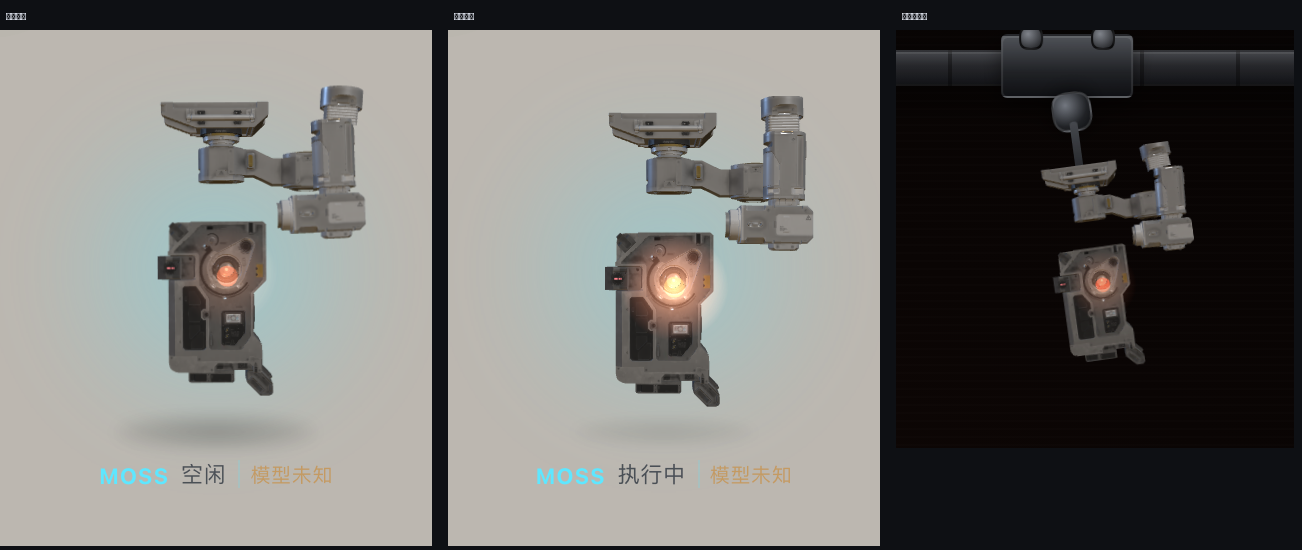
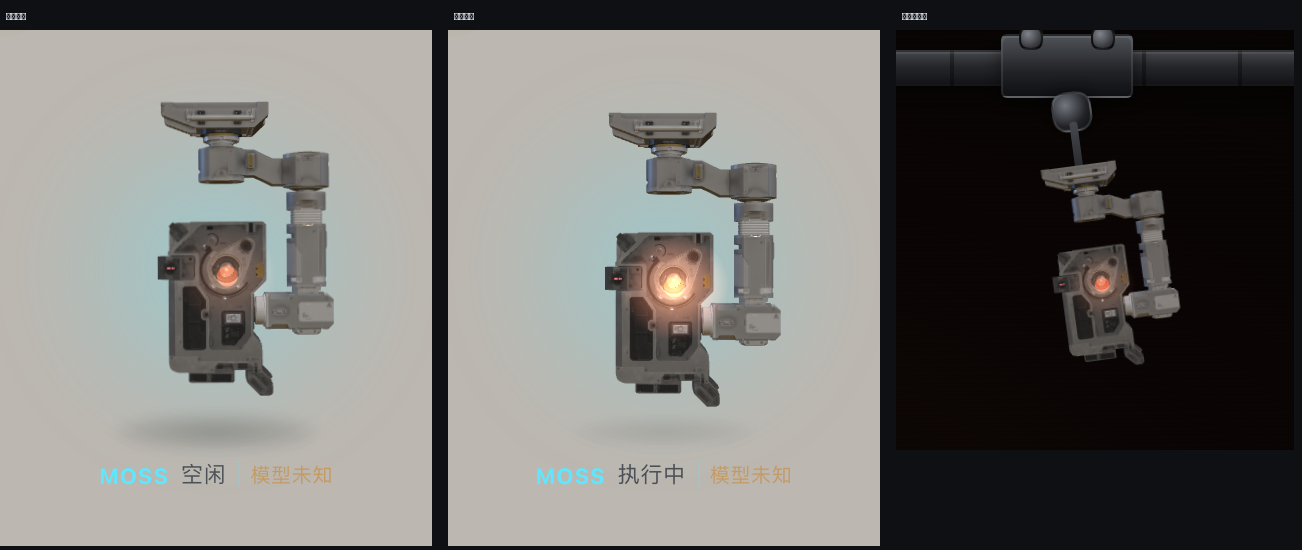
fix(moss): 关节改为腕关节单轴，消除机身与手臂分离
实测模型结构：Moss_arm 把顶部横梁+头部+整条手臂焊成一个 rigid mesh，
只有 Moss_Main/Annexes/Glass（机身）是独立 mesh。
- 放弃按高度切分手臂（切完会出现零件错位/消失，已复现）
- 改为：机身挂到腕关节枢轴，绕手臂末端摆动（空闲 ±1.8°、执行 ±2.6°）
- 机身随腕关节运动，手臂/头部保持完整，不再出现撕裂或空洞
- 红眼仍挂在模型根节点随模型动
- 素材版本 v50

Changed region(s): [[0.5223, 0.1545, 0.6452, 0.6491], [0.1843, 0.1545, 0.3072, 0.6182], [0.8602, 0.2473, 0.9217, 0.5873]]

diff --git a/assets3d/boot.js b/assets3d/boot.js
@@ -32,6 +32,7 @@ export function createMoss3D(canvas, opts) {
   let lensLamp = null
   let armTop = null
   let armMid = null
+  let armWrist = null
   let working = false
   let disposed = false
   let raf = 0
@@ -77,137 +78,31 @@ export function createMoss3D(canvas, opts) {
     objRoot = obj
     obj.updateMatrixWorld(true)
 
-    /* ── 机械臂拆分：模型的手臂是 52 个独立零件，按高度分成上臂 / 前臂 / 手 ──
-       每段绕自己的关节旋转，段与段之间是真实关节，不会撕裂。 */
-    const arm = obj.getObjectByName('Moss_arm')
-    if (arm) {
-      const geo = arm.geometry
-      const posAttr = geo.attributes.position
-      const norAttr = geo.attributes.normal
-      const uvAttr = geo.attributes.uv
-      const total = posAttr.count
-
-      /* 1) 按坐标焊接后并查集，得到三角面所属的连通块 */
-      const weld = new Map()
-      const wid = new Int32Array(total)
-      for (let i = 0; i < total; i += 1) {
-        const k = posAttr.getX(i).toFixed(2) + ',' + posAttr.getY(i).toFixed(2) + ',' + posAttr.getZ(i).toFixed(2)
-        let id = weld.get(k)
-        if (id === undefined) { id = weld.size; weld.set(k, id) }
-        wid[i] = id
+    /* ── 关节 ──────────────────────────────────────────────────────
+       模型结构实测：顶部横梁 + 头部 + 整条手臂被焊成同一个 mesh（Moss_arm），
+       只有机身（Moss_Main / Moss_Annexes / Moss_Glass）是独立 mesh。
+       所以唯一能无撕裂旋转的关节是「腕关节」：机身绕手臂末端摆动。
+       硬转整条手臂会把头部和机身一起拽走（已实测），因此不转手臂。 */
+    {
+      const body0 = obj.getObjectByName('Moss_Main')
+      if (body0) {
+        const mb = new THREE.Box3().setFromObject(body0)
+        /* 腕关节在机身右上角、手臂与机身相连处 */
+        const wristPos = new THREE.Vector3(
+          mb.max.x - (mb.max.x - mb.min.x) * 0.02,
+          mb.max.y - (mb.max.y - mb.min.y) * 0.06,
+          mb.getCenter(new THREE.Vector3()).z,
+        )
+        const wrist = new THREE.Group()
+        wrist.position.copy(obj.worldToLocal(wristPos.clone()))
+        obj.add(wrist)
+        obj.updateMatrixWorld(true)
+        ;['Moss_Main', 'Moss_Annexes', 'Moss_Glass'].forEach((nm) => {
+          const part = obj.getObjectByName(nm)
+          if (part) wrist.attach(part)
+        })
+        armWrist = wrist
       }
-      const parent = new Int32Array(weld.size)
-      for (let i = 0; i < parent.length; i += 1) parent[i] = i
-      const find = (x) => { let r = x; while (parent[r] !== r) r = parent[r]; while (parent[x] !== r) { const n = parent[x]; parent[x] = r; x = n } return r }
-      const join = (a, b) => { const ra = find(a); const rb = find(b); if (ra !== rb) parent[ra] = rb }
-      for (let i = 0; i < total; i += 3) { join(wid[i], wid[i + 1]); join(wid[i], wid[i + 2]) }
-
-      /* 2) 每个连通块的世界坐标 Y（手臂网格可能带旋转，必须转到世界） */
-      arm.updateMatrixWorld(true)
-      const root = arm.matrixWorld
-      const toWorld = new THREE.Vector3()
-      const compY = new Map()
-      for (let i = 0; i < total; i += 1) {
-        const r = find(wid[i])
-        toWorld.set(posAttr.getX(i), posAttr.getY(i), posAttr.getZ(i)).applyMatrix4(root)
-        const rec = compY.get(r)
-        if (!rec) compY.set(r, { y0: toWorld.y, y1: toWorld.y, sum: toWorld.y, n: 1 })
-        else { rec.y0 = Math.min(rec.y0, toWorld.y); rec.y1 = Math.max(rec.y1, toWorld.y); rec.sum += toWorld.y; rec.n += 1 }
-      }
-      let minY = Infinity; let maxY = -Infinity
-      compY.forEach((rec) => { minY = Math.min(minY, rec.y0); maxY = Math.max(maxY, rec.y1) })
-      const span = Math.max(0.001, maxY - minY)
-      const yShoulder = maxY - span * 0.30
-      const yElbow = maxY - span * 0.68
-
-      /* 3) 按组的包围盒把三角面分到三段里 */
-      const groupOf = new Map()   // componentRoot -> 0 上臂 / 1 前臂 / 2 手
-      compY.forEach((rec, r) => {
-        const mid = (rec.y0 + rec.y1) / 2
-        groupOf.set(r, mid > yShoulder ? 0 : mid > yElbow ? 1 : 2)
-      })
-
-      const buckets = [[], [], []]
-      for (let i = 0; i < total; i += 3) {
-        const gI = groupOf.get(find(wid[i])) || 0
-        buckets[gI].push(i)
-      }
-
-      const buildSub = (triStarts) => {
-        const count = triStarts.length * 3
-        const p2 = new Float32Array(count * 3)
-        const n2 = new Float32Array(count * 3)
-        const u2 = uvAttr ? new Float32Array(count * 2) : null
-        let w = 0
-        for (const start of triStarts) {
-          for (let k = 0; k < 3; k += 1) {
-            const v = start + k
-            p2[w * 3] = posAttr.getX(v); p2[w * 3 + 1] = posAttr.getY(v); p2[w * 3 + 2] = posAttr.getZ(v)
-            if (norAttr) { n2[w * 3] = norAttr.getX(v); n2[w * 3 + 1] = norAttr.getY(v); n2[w * 3 + 2] = norAttr.getZ(v) }
-            if (u2) { u2[w * 2] = uvAttr.getX(v); u2[w * 2 + 1] = uvAttr.getY(v) }
-            w += 1
-          }
-        }
-        const g2 = new THREE.BufferGeometry()
-        g2.setAttribute('position', new THREE.BufferAttribute(p2, 3))
-        if (norAttr) g2.setAttribute('normal', new THREE.BufferAttribute(n2, 3))
-        if (u2) g2.setAttribute('uv', new THREE.BufferAttribute(u2, 2))
-        return g2
-      }
-
-      const parentOfArm = arm.parent
-      const armMaterial = arm.material
-      const makePivot = (worldPos, parentObj) => {
-        const p = new THREE.Group()
-        p.position.copy(parentObj.worldToLocal(worldPos.clone()))
-        parentObj.add(p)
-        parentObj.updateMatrixWorld(true)
-        return p
-      }
-      const segWorld = [[], [], []]
-      for (let i = 0; i < total; i += 1) {
-        const gI = groupOf.get(find(wid[i])) || 0
-        toWorld.set(posAttr.getX(i), posAttr.getY(i), posAttr.getZ(i)).applyMatrix4(root)
-        segWorld[gI].push(toWorld.clone())
-      }
-      const topOf = (arr) => {
-        if (!arr.length) return new THREE.Vector3()
-        let top = -Infinity
-        for (const v of arr) { if (v.y > top) top = v.y }
-        let sx = 0; let sz = 0; let n = 0
-        for (const v of arr) { if (v.y > top - span * 0.05) { sx += v.x; sz += v.z; n += 1 } }
-        return new THREE.Vector3(sx / Math.max(1, n), top, sz / Math.max(1, n))
-      }
-      const elbowWorld = topOf(segWorld[1])
-      const wristWorld = topOf(segWorld[2])
-
-      const place = (triStarts) => {
-        const mesh = new THREE.Mesh(buildSub(triStarts), armMaterial)
-        mesh.matrix.copy(arm.matrix)
-        mesh.matrix.decompose(mesh.position, mesh.quaternion, mesh.scale)
-        return mesh
-      }
-
-      /* 头 + 上臂：刚性固定（它是整条臂的挂载端，不能转） */
-      const fixed = place(buckets[0])
-      parentOfArm.add(fixed)
-      parentOfArm.updateMatrixWorld(true)
-      fixed.matrix.copy(arm.matrix)
-      fixed.matrix.decompose(fixed.position, fixed.quaternion, fixed.scale)
-
-      /* 前臂：绕肘关节 */
-      const elbow = makePivot(elbowWorld, parentOfArm)
-      const fore = place(buckets[1])
-      elbow.attach(fore)
-
-      /* 手：绕腕关节，跟着肘一起动 */
-      const wrist = makePivot(wristWorld, parentOfArm)
-      const hand = place(buckets[2])
-      wrist.attach(hand)
-
-      arm.visible = false
-      armTop = elbow
-      armMid = wrist
     }
 
     /* 红眼：模型自带发光贴图只有 3 个 LED 点，主镜头没做发光，这里补一层 */
@@ -290,10 +185,12 @@ export function createMoss3D(canvas, opts) {
     const speed = working ? 2.6 : 1
     if (armTop) {
       /* 肩关节与肘关节反向配合：手臂抬起时小臂回折，手始终靠近机身 */
-      const amp = working ? 6 : 4
-      const s1 = Math.sin(t * 0.75 * speed) * (amp * Math.PI / 180)
-      armTop.rotation.z = s1
-      if (armMid) armMid.rotation.z = -s1 * 0.55
+      /* 腕关节：机身像挂件一样绕手臂末端摆动 */
+      if (armWrist) {
+        const amp = working ? 2.6 : 1.8
+        armWrist.rotation.z = Math.sin(t * 0.7 * speed) * (amp * Math.PI / 180)
+        armWrist.rotation.x = Math.sin(t * 0.5 * speed + 0.8) * (amp * 0.35 * Math.PI / 180)
+      }
     }
     if (lensCore && lensHalo) {
       /* 空闲：暗红呼吸；执行：亮起并快速脉冲 */

diff --git a/client/client.js b/client/client.js
@@ -37,7 +37,7 @@ window.__ModuleLoader__.load({
     var ROOT_ID = 'dsh-pet-liang-root'
     var POS_KEY = 'dsh-pet-liang:pos'
     /* 素材改了名字没变，加一个版本号强制浏览器重新取（宿主给的是 immutable 缓存） */
-    var ASSET_V = '49'
+    var ASSET_V = '50'
     var STYLE_ID = 'dsh-pet-liang-style'
 
     /** 四档推理等级对应的称呼与氛围色。 */

diff --git a/README.md b/README.md
@@ -109,7 +109,7 @@ MOSS 形象不再用预渲染 PNG，而是**在插件里实时渲染你提供的
 - 模型：`assets3d/moss.fbx`（4 个材质组 Moss_Main / Moss_arm / Moss_Glass / Moss_Annexes）
 - 贴图：4096² 原图压到 512 的 WebP，共 13 张（Base / Normal / Emissive / ORM 打包），合计约 400KB
 - 运行时：`three.module.min.js` + `FBXLoader` + `fflate` + `NURBS*`，全部本地托管，不联网
-- **关节**：`Moss_arm` 其实是 52 个独立零件。运行时会按高度把它们分成「头+上臂 / 前臂 / 手」三组，头+上臂刚性固定，前臂绕肘关节、手绕腕关节反向配合旋转（空闲 ±4°、执行 ±6°）——关节处是真旋转，头和机身不会跟着晃、也不会撕开
+- **关节**：实测模型结构——顶部横梁 + 头部 + 整条手臂是**同一个 rigid mesh**（`Moss_arm`），只有机身（`Moss_Main/Annexes/Glass`）是独立 mesh。所以唯一能无撕裂旋转的关节是**腕关节**：机身挂在手臂末端、绕腕关节摆动（空闲 ±1.8°，执行 ±2.6°）。硬转整条手臂会把头部和机身一起拽走（实测会出现零件消失/错位），因此不转手臂
 - **红眼**：模型自带的发光贴图只有 3 个 2px 的 LED 点，主镜头根本没做发光 —— 所以在机身正前方按标定位置加了一层“发光盘 + 径向光晕 + 红色点光”，并**挂在模型根节点上**随模型一起动；空闲暗橙呼吸，执行态转红、变亮、脉冲加快
 - 渲染 30fps 上限；切到梁神时暂停渲染循环
 - 失败兜底：WebGL / 模型加载失败时自动退回 PNG 立绘（`moss-base.webp` + `moss-forearm.webp`）
